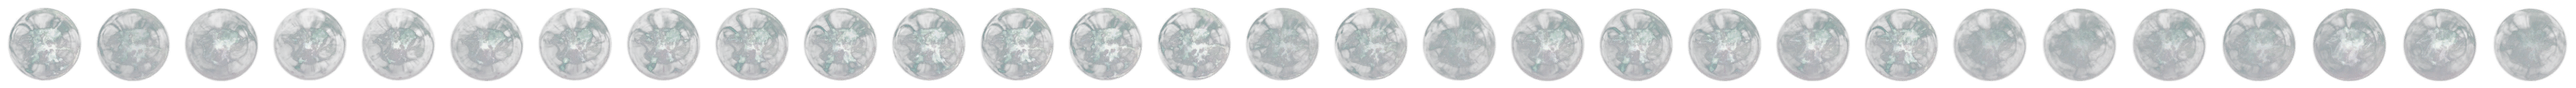
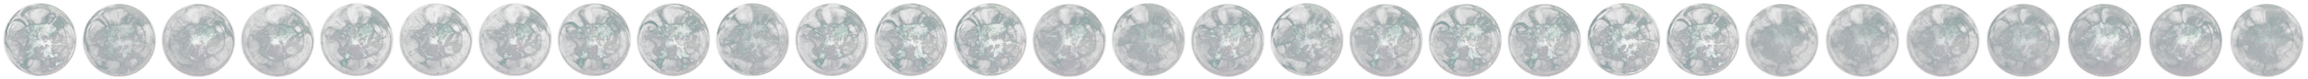
update

Changed region(s): [[0.0, 0.05, 1.0, 0.975]]

diff --git a/src/hero_loading/invoker.js b/src/hero_loading/invoker.js
@@ -172,7 +172,7 @@ export const initialize3D = (domElement) => {
             HERO.orb3 = orb3;
 
             // 处理附加帮助图元
-            initHelpers(true);
+            initHelpers(false);
 
         });
     }
@@ -240,10 +240,8 @@ export const initialize3D = (domElement) => {
         const orbsSpawnActionR = animationMixer1.clipAction(orbsSpawnClipR, heroModel);
         orbsSpawnActionL.blendMode = THREE.NormalAnimationBlendMode;
         orbsSpawnActionL.loop = THREE.LoopOnce;
-        orbsSpawnActionL.timeScale = 1.5;
         orbsSpawnActionR.blendMode = THREE.NormalAnimationBlendMode;
         orbsSpawnActionR.loop = THREE.LoopOnce;
-        orbsSpawnActionR.timeScale = 1.5;
         HERO.orbsSpawnActionL = orbsSpawnActionL;
         HERO.orbsSpawnActionR = orbsSpawnActionR;
 
@@ -291,12 +289,14 @@ export const initialize3D = (domElement) => {
         grid.material.transparent = true;
         grid.name = 'GridHelper';
         scene.add(grid);
+
         grid.visible = active;
 
         // axes
         const axes = new THREE.AxesHelper(500);
         axes.name = 'AxesHelper';
         scene.add(axes);
+
         axes.visible = active;
 
         // directional
@@ -315,6 +315,9 @@ export const initialize3D = (domElement) => {
             scene.add(spot_light_helper);
             const spot_light_helper1 = new THREE.CameraHelper(GLOBAL.directional_light.shadow.camera);
             scene.add(spot_light_helper1);
+
+            spot_light_helper.visible = active;
+            spot_light_helper1.visible = active;
         }
 
         if (HERO.heroModel) {
@@ -346,14 +349,24 @@ export const initialize3D = (domElement) => {
             HERO.animationMixer1.update(deltaTime);
         }
 
-        // 判断是否生成卡尔的球
+        // 卡尔的球
         if (HERO.orb1 && HERO.orb2 && HERO.orb3) {
+
             const orb1 = HERO.orb1;
             const orb2 = HERO.orb2;
             const orb3 = HERO.orb3;
+
             orb1.material.uniforms.uTime.value = elapsedTime;
             orb2.material.uniforms.uTime.value = elapsedTime;
             orb3.material.uniforms.uTime.value = elapsedTime;
+
+            orb1.material.uniforms.uRandDinamic.value = Math.random();
+            orb2.material.uniforms.uRandDinamic.value = Math.random();
+            orb3.material.uniforms.uRandDinamic.value = Math.random();
+
+            orb1.material.uniforms.uLifeTime.value += deltaTime;
+            orb2.material.uniforms.uLifeTime.value += deltaTime;
+            orb3.material.uniforms.uLifeTime.value += deltaTime;
         }
 
     }

diff --git a/src/hero_loading/shaders/InvokerOrbShaderMaterial.js b/src/hero_loading/shaders/InvokerOrbShaderMaterial.js
@@ -11,25 +11,33 @@ const invokerOrbShaderMaterial = () => new THREE.ShaderMaterial({
 
     uniforms: {
 
+        uRand: { value: Math.random() }, // 静态随机值
+        uRandDinamic: { value: Math.random() }, // 动态随机值
+        uTime: { value: 0.0 }, // 渲染时间
+        uLifeTime: { value: 0.0 }, // 切球时间
+
         // 球状着色图
         uMap1: { value: orbTintable },
 
-        // 冰球过度色
-        uColor1: { value: new THREE.Color(0x83D5FE) },
-        uColor2: { value: new THREE.Color(0x4B7EFC) },
-
-        // 电球着色图
+        // 能量球着色图
         uMap2: { value: orbEnergyTintable },
 
-        // 电球色
+        // 冰球
+        uColor1: { value: new THREE.Color(0x83D5FE) },
+        uColor2: { value: new THREE.Color(0x64AEFF) },
+        uColor3: { value: new THREE.Color(0x4A76D3) },
 
-        // 火球色
+        // 电球
+        uColor4: { value: new THREE.Color(0xFDF5FB) },
+        uColor5: { value: new THREE.Color(0x916594) },
 
-        // 切球时间
-        uLifeTime: { value: 0.0 },
+        // 火球
+        uColor6: { value: new THREE.Color(0xFFFFFF) },
+        uColor7: { value: new THREE.Color(0xFFF665) },
+        uColor8: { value: new THREE.Color(0xEC9F48) },
 
-        // 渲染时间
-        uTime: { value: 0.0 },
+
+        
     },
 
     vertexShader: orbVert,
